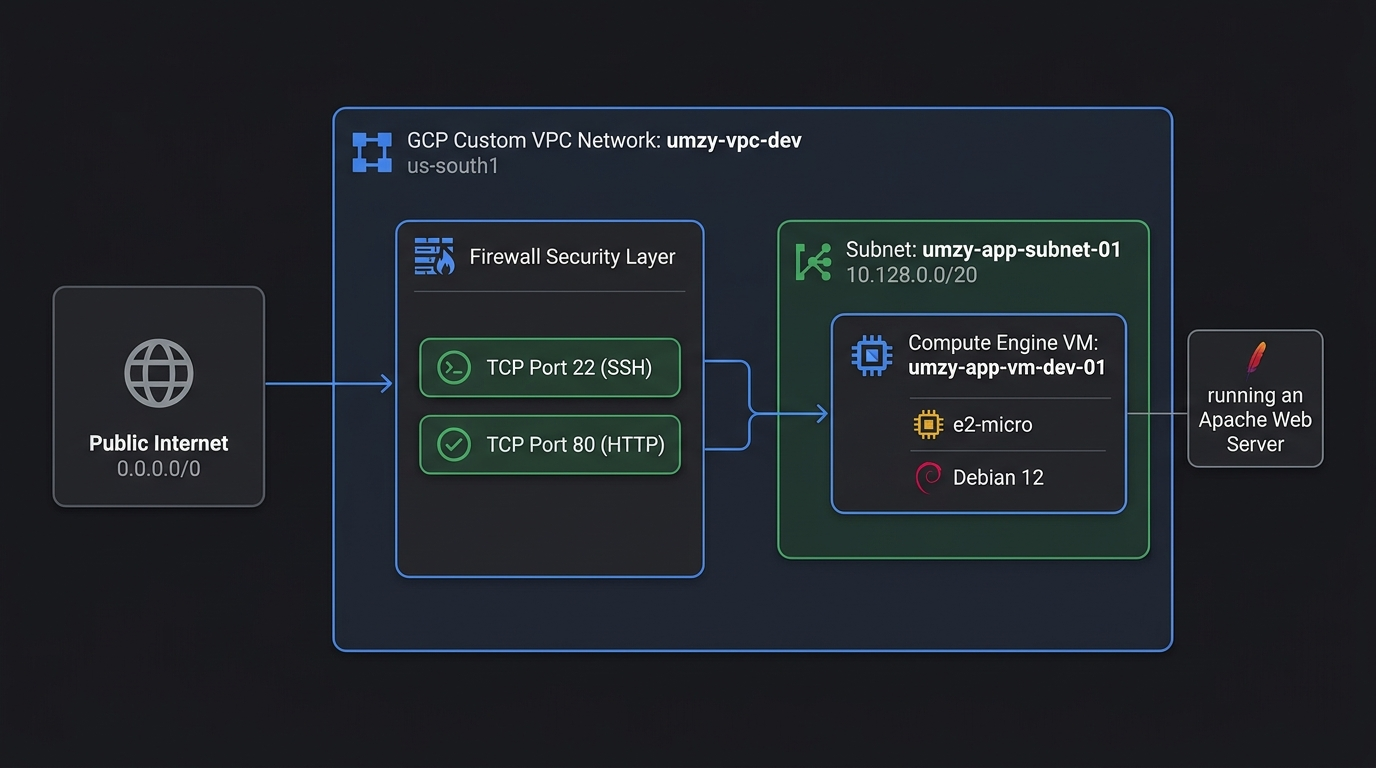
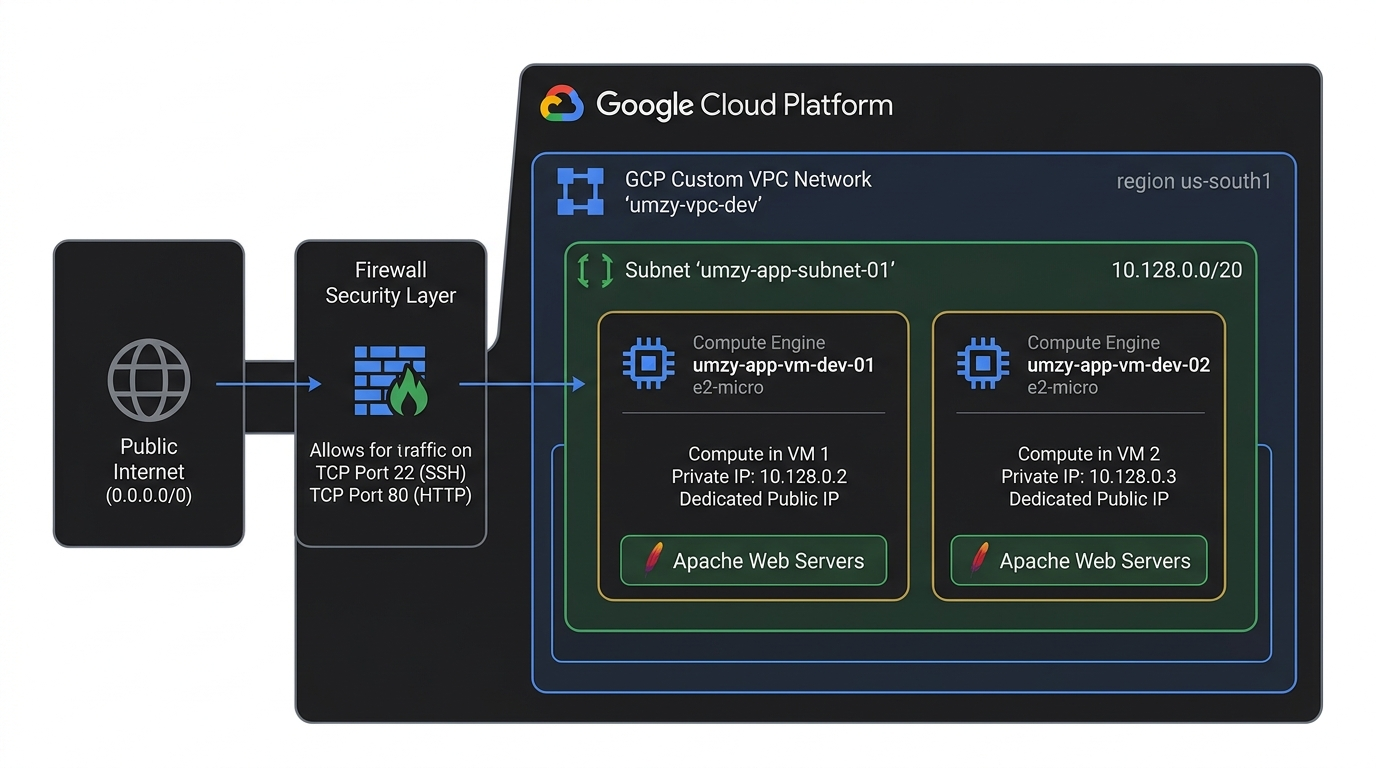
Update README diagrams and image for 2-VM architecture

diff --git a/README.md b/README.md
@@ -43,9 +43,14 @@ graph TD
             subgraph SUB ["📍 Custom Subnet (umzy-app-subnet-01)"]
                 SUBNET_INFO["CIDR: 10.128.0.0/20 | 4,094 Usable IPs"]
                 
-                subgraph VM ["💻 Compute Engine VM (umzy-app-vm-dev-01)"]
-                    VM_INFO["Type: e2-micro | OS: Debian 12<br/>Private IP: 10.128.0.2<br/>Public Ephemeral IP"]
-                    APP["🚀 Apache Web Server (Port 80)<br/>Auto-bootstrapped via startup.sh"]
+                subgraph VM1 ["💻 Compute Engine VM 1 (umzy-app-vm-dev-01)"]
+                    VM1_INFO["Type: e2-micro | OS: Debian 12<br/>Private IP: 10.128.0.2<br/>Dedicated Public Ephemeral IP 1"]
+                    APP1["🚀 Apache Web Server (Port 80)<br/>Auto-bootstrapped via startup.sh"]
+                end
+
+                subgraph VM2 ["💻 Compute Engine VM 2 (umzy-app-vm-dev-02)"]
+                    VM2_INFO["Type: e2-micro | OS: Debian 12<br/>Private IP: 10.128.0.3<br/>Dedicated Public Ephemeral IP 2"]
+                    APP2["🚀 Apache Web Server (Port 80)<br/>Auto-bootstrapped via startup.sh"]
                 end
             end
         end
@@ -55,14 +60,16 @@ graph TD
     B -->|TCP 80| FW2
     C -.->|Dropped at Edge| FW3
 
-    FW1 -->|Matches Tag: ssh| VM
-    FW2 -->|Matches Tag: web-server| VM
+    FW1 -->|Matches Tag: ssh| VM1
+    FW1 -->|Matches Tag: ssh| VM2
+    FW2 -->|Matches Tag: web-server| VM1
+    FW2 -->|Matches Tag: web-server| VM2
 
     class IN internetStyle;
     class GCP gcpStyle;
     class VPC vpcStyle;
     class SUB subnetStyle;
-    class VM vmStyle;
+    class VM1,VM2 vmStyle;
 ```
 
 ---
@@ -84,10 +91,10 @@ sequenceDiagram
     Dev->>VPC: 2. Create Firewall Rules (allow_ssh & allow_http)
     VPC->>GCP: Create google_compute_firewall resources
     VPC-->>Dev: 3. Export target_tags output via tolist(setunion(...))
-    Dev->>Compute: 4. Pass tags = module.vpc.firewall_target_tags
-    Compute->>GCP: 5. Create VM Instance (umzy-app-vm-dev-01)
-    Compute->>GCP: 6. Inject metadata_startup_script file("scripts/startup.sh")
-    GCP-->>Dev: 7. Return Instance IPs & Web Server URL
+    Dev->>Compute: 4. Pass tags = module.vpc.firewall_target_tags & count = 2
+    Compute->>GCP: 5. Create 2 VMs (umzy-app-vm-dev-01 & umzy-app-vm-dev-02)
+    Compute->>GCP: 6. Inject metadata_startup_script file("scripts/startup.sh") into both VMs
+    GCP-->>Dev: 7. Return Array of Instance IPs & Web Server URLs
     Dev-->>User: Deployment Complete!
 ```
 
